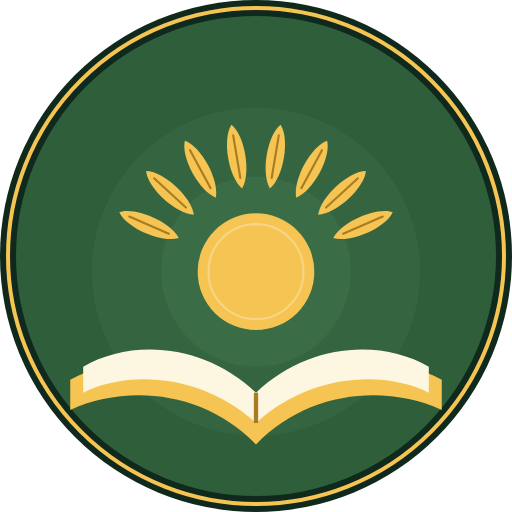
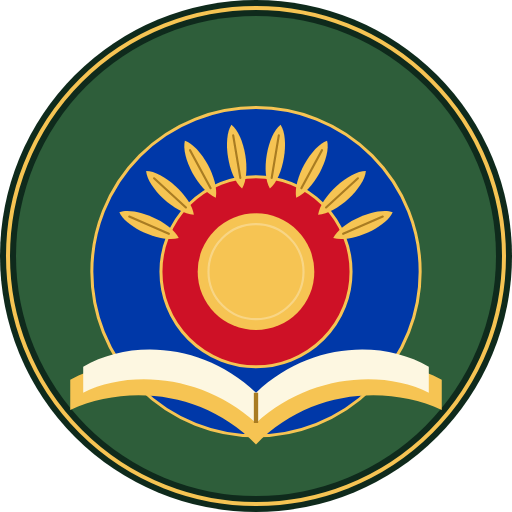
Take 3: flag blue and red rings behind the sun in place of the light greens
Claude-Session: https://claude.ai/code/session_01CBKGe5batvFWV6i17MSeEM

Changed region(s): [[0.1562, 0.1875, 0.8438, 0.7812], [0.2812, 0.75, 0.7188, 0.875]]

diff --git a/brand/jtcsii/take-3/guidelines.html b/brand/jtcsii/take-3/guidelines.html
@@ -69,8 +69,10 @@ svg.stacked{width:min(100%,480px);height:auto}svg.hz{width:100%;height:auto}
   <g fill="#F6C453"><path transform="translate(-59.85 -155.91) rotate(-21)" d="M0,-9.5 L2.29,-3.16 L9.04,-2.94 L3.71,1.21 L5.58,7.69 L0,3.9 L-5.58,7.69 L-3.71,1.21 L-9.04,-2.94 L-2.29,-3.16 Z"/><path transform="translate(0 -167) rotate(0)" d="M0,-9.5 L2.29,-3.16 L9.04,-2.94 L3.71,1.21 L5.58,7.69 L0,3.9 L-5.58,7.69 L-3.71,1.21 L-9.04,-2.94 L-2.29,-3.16 Z"/><path transform="translate(59.85 -155.91) rotate(21)" d="M0,-9.5 L2.29,-3.16 L9.04,-2.94 L3.71,1.21 L5.58,7.69 L0,3.9 L-5.58,7.69 L-3.71,1.21 L-9.04,-2.94 L-2.29,-3.16 Z"/></g>
   <defs><clipPath id="stmedu0"><circle r="128"/></clipPath></defs>
   <g clip-path="url(#stmedu0)"><rect x="-140" y="-140" width="280" height="280" fill="#2E5E3A"/>
-  <g transform="translate(0 -8)"><circle cx="0" cy="4" r="76" fill="#3A6C46" opacity=".55"/>
-  <circle cx="0" cy="4" r="44" fill="#3A6C46"/>
+  <g transform="translate(0 -8)"><circle cx="0" cy="4" r="76" fill="#0038A8"/>
+  <circle cx="0" cy="4" r="44" fill="#CE1126"/>
+  <circle cx="0" cy="4" r="44" fill="none" stroke="#F6C453" stroke-width="1.4"/>
+  <circle cx="0" cy="4" r="76" fill="none" stroke="#F6C453" stroke-width="1.4"/>
   <g fill="#F6C453"><path transform="translate(0 4) rotate(-66.5) translate(0 -54)" d="M0,-15 C5.25,-9.3 5.5,8.25 0,15 C-5.5,8.25 -5.25,-9.3 0,-15 Z"/><path transform="translate(0 4) rotate(-66.5) translate(0 -54)" d="M0,-10 V10" stroke="#A97C22" stroke-width="1" stroke-linecap="round"/><path transform="translate(0 4) rotate(-47.5) translate(0 -54)" d="M0,-15 C5.25,-9.3 5.5,8.25 0,15 C-5.5,8.25 -5.25,-9.3 0,-15 Z"/><path transform="translate(0 4) rotate(-47.5) translate(0 -54)" d="M0,-10 V10" stroke="#A97C22" stroke-width="1" stroke-linecap="round"/><path transform="translate(0 4) rotate(-28.5) translate(0 -54)" d="M0,-15 C5.25,-9.3 5.5,8.25 0,15 C-5.5,8.25 -5.25,-9.3 0,-15 Z"/><path transform="translate(0 4) rotate(-28.5) translate(0 -54)" d="M0,-10 V10" stroke="#A97C22" stroke-width="1" stroke-linecap="round"/><path transform="translate(0 4) rotate(-9.5) translate(0 -54)" d="M0,-15 C5.25,-9.3 5.5,8.25 0,15 C-5.5,8.25 -5.25,-9.3 0,-15 Z"/><path transform="translate(0 4) rotate(-9.5) translate(0 -54)" d="M0,-10 V10" stroke="#A97C22" stroke-width="1" stroke-linecap="round"/><path transform="translate(0 4) rotate(9.5) translate(0 -54)" d="M0,-15 C5.25,-9.3 5.5,8.25 0,15 C-5.5,8.25 -5.25,-9.3 0,-15 Z"/><path transform="translate(0 4) rotate(9.5) translate(0 -54)" d="M0,-10 V10" stroke="#A97C22" stroke-width="1" stroke-linecap="round"/><path transform="translate(0 4) rotate(28.5) translate(0 -54)" d="M0,-15 C5.25,-9.3 5.5,8.25 0,15 C-5.5,8.25 -5.25,-9.3 0,-15 Z"/><path transform="translate(0 4) rotate(28.5) translate(0 -54)" d="M0,-10 V10" stroke="#A97C22" stroke-width="1" stroke-linecap="round"/><path transform="translate(0 4) rotate(47.5) translate(0 -54)" d="M0,-15 C5.25,-9.3 5.5,8.25 0,15 C-5.5,8.25 -5.25,-9.3 0,-15 Z"/><path transform="translate(0 4) rotate(47.5) translate(0 -54)" d="M0,-10 V10" stroke="#A97C22" stroke-width="1" stroke-linecap="round"/><path transform="translate(0 4) rotate(66.5) translate(0 -54)" d="M0,-15 C5.25,-9.3 5.5,8.25 0,15 C-5.5,8.25 -5.25,-9.3 0,-15 Z"/><path transform="translate(0 4) rotate(66.5) translate(0 -54)" d="M0,-10 V10" stroke="#A97C22" stroke-width="1" stroke-linecap="round"/></g>
   <circle cx="0" cy="4" r="27" fill="#F6C453"/>
   <circle cx="0" cy="4" r="22" fill="none" stroke="#FDF7E1" stroke-opacity=".35" stroke-width="1"/><path d="M-150,72 -104,44 -72,52 -40,41 0,47 40,41 72,52 104,44 150,72 150,150 -150,150 Z" fill="#2A5636"/>
@@ -127,8 +129,10 @@ svg.stacked{width:min(100%,480px);height:auto}svg.hz{width:100%;height:auto}
   <g fill="#F6C453"><path transform="translate(-59.85 -155.91) rotate(-21)" d="M0,-9.5 L2.29,-3.16 L9.04,-2.94 L3.71,1.21 L5.58,7.69 L0,3.9 L-5.58,7.69 L-3.71,1.21 L-9.04,-2.94 L-2.29,-3.16 Z"/><path transform="translate(0 -167) rotate(0)" d="M0,-9.5 L2.29,-3.16 L9.04,-2.94 L3.71,1.21 L5.58,7.69 L0,3.9 L-5.58,7.69 L-3.71,1.21 L-9.04,-2.94 L-2.29,-3.16 Z"/><path transform="translate(59.85 -155.91) rotate(21)" d="M0,-9.5 L2.29,-3.16 L9.04,-2.94 L3.71,1.21 L5.58,7.69 L0,3.9 L-5.58,7.69 L-3.71,1.21 L-9.04,-2.94 L-2.29,-3.16 Z"/></g>
   <defs><clipPath id="hzmedu1"><circle r="128"/></clipPath></defs>
   <g clip-path="url(#hzmedu1)"><rect x="-140" y="-140" width="280" height="280" fill="#2E5E3A"/>
-  <g transform="translate(0 -8)"><circle cx="0" cy="4" r="76" fill="#3A6C46" opacity=".55"/>
-  <circle cx="0" cy="4" r="44" fill="#3A6C46"/>
+  <g transform="translate(0 -8)"><circle cx="0" cy="4" r="76" fill="#0038A8"/>
+  <circle cx="0" cy="4" r="44" fill="#CE1126"/>
+  <circle cx="0" cy="4" r="44" fill="none" stroke="#F6C453" stroke-width="1.4"/>
+  <circle cx="0" cy="4" r="76" fill="none" stroke="#F6C453" stroke-width="1.4"/>
   <g fill="#F6C453"><path transform="translate(0 4) rotate(-66.5) translate(0 -54)" d="M0,-15 C5.25,-9.3 5.5,8.25 0,15 C-5.5,8.25 -5.25,-9.3 0,-15 Z"/><path transform="translate(0 4) rotate(-66.5) translate(0 -54)" d="M0,-10 V10" stroke="#A97C22" stroke-width="1" stroke-linecap="round"/><path transform="translate(0 4) rotate(-47.5) translate(0 -54)" d="M0,-15 C5.25,-9.3 5.5,8.25 0,15 C-5.5,8.25 -5.25,-9.3 0,-15 Z"/><path transform="translate(0 4) rotate(-47.5) translate(0 -54)" d="M0,-10 V10" stroke="#A97C22" stroke-width="1" stroke-linecap="round"/><path transform="translate(0 4) rotate(-28.5) translate(0 -54)" d="M0,-15 C5.25,-9.3 5.5,8.25 0,15 C-5.5,8.25 -5.25,-9.3 0,-15 Z"/><path transform="translate(0 4) rotate(-28.5) translate(0 -54)" d="M0,-10 V10" stroke="#A97C22" stroke-width="1" stroke-linecap="round"/><path transform="translate(0 4) rotate(-9.5) translate(0 -54)" d="M0,-15 C5.25,-9.3 5.5,8.25 0,15 C-5.5,8.25 -5.25,-9.3 0,-15 Z"/><path transform="translate(0 4) rotate(-9.5) translate(0 -54)" d="M0,-10 V10" stroke="#A97C22" stroke-width="1" stroke-linecap="round"/><path transform="translate(0 4) rotate(9.5) translate(0 -54)" d="M0,-15 C5.25,-9.3 5.5,8.25 0,15 C-5.5,8.25 -5.25,-9.3 0,-15 Z"/><path transform="translate(0 4) rotate(9.5) translate(0 -54)" d="M0,-10 V10" stroke="#A97C22" stroke-width="1" stroke-linecap="round"/><path transform="translate(0 4) rotate(28.5) translate(0 -54)" d="M0,-15 C5.25,-9.3 5.5,8.25 0,15 C-5.5,8.25 -5.25,-9.3 0,-15 Z"/><path transform="translate(0 4) rotate(28.5) translate(0 -54)" d="M0,-10 V10" stroke="#A97C22" stroke-width="1" stroke-linecap="round"/><path transform="translate(0 4) rotate(47.5) translate(0 -54)" d="M0,-15 C5.25,-9.3 5.5,8.25 0,15 C-5.5,8.25 -5.25,-9.3 0,-15 Z"/><path transform="translate(0 4) rotate(47.5) translate(0 -54)" d="M0,-10 V10" stroke="#A97C22" stroke-width="1" stroke-linecap="round"/><path transform="translate(0 4) rotate(66.5) translate(0 -54)" d="M0,-15 C5.25,-9.3 5.5,8.25 0,15 C-5.5,8.25 -5.25,-9.3 0,-15 Z"/><path transform="translate(0 4) rotate(66.5) translate(0 -54)" d="M0,-10 V10" stroke="#A97C22" stroke-width="1" stroke-linecap="round"/></g>
   <circle cx="0" cy="4" r="27" fill="#F6C453"/>
   <circle cx="0" cy="4" r="22" fill="none" stroke="#FDF7E1" stroke-opacity=".35" stroke-width="1"/><path d="M-150,72 -104,44 -72,52 -40,41 0,47 40,41 72,52 104,44 150,72 150,150 -150,150 Z" fill="#2A5636"/>
@@ -186,8 +190,10 @@ svg.stacked{width:min(100%,480px);height:auto}svg.hz{width:100%;height:auto}
   <g fill="#F6C453"><path transform="translate(-59.85 -155.91) rotate(-21)" d="M0,-9.5 L2.29,-3.16 L9.04,-2.94 L3.71,1.21 L5.58,7.69 L0,3.9 L-5.58,7.69 L-3.71,1.21 L-9.04,-2.94 L-2.29,-3.16 Z"/><path transform="translate(0 -167) rotate(0)" d="M0,-9.5 L2.29,-3.16 L9.04,-2.94 L3.71,1.21 L5.58,7.69 L0,3.9 L-5.58,7.69 L-3.71,1.21 L-9.04,-2.94 L-2.29,-3.16 Z"/><path transform="translate(59.85 -155.91) rotate(21)" d="M0,-9.5 L2.29,-3.16 L9.04,-2.94 L3.71,1.21 L5.58,7.69 L0,3.9 L-5.58,7.69 L-3.71,1.21 L-9.04,-2.94 L-2.29,-3.16 Z"/></g>
   <defs><clipPath id="hrmedu2"><circle r="128"/></clipPath></defs>
   <g clip-path="url(#hrmedu2)"><rect x="-140" y="-140" width="280" height="280" fill="#2E5E3A"/>
-  <g transform="translate(0 -8)"><circle cx="0" cy="4" r="76" fill="#3A6C46" opacity=".55"/>
-  <circle cx="0" cy="4" r="44" fill="#3A6C46"/>
+  <g transform="translate(0 -8)"><circle cx="0" cy="4" r="76" fill="#0038A8"/>
+  <circle cx="0" cy="4" r="44" fill="#CE1126"/>
+  <circle cx="0" cy="4" r="44" fill="none" stroke="#F6C453" stroke-width="1.4"/>
+  <circle cx="0" cy="4" r="76" fill="none" stroke="#F6C453" stroke-width="1.4"/>
   <g fill="#F6C453"><path transform="translate(0 4) rotate(-66.5) translate(0 -54)" d="M0,-15 C5.25,-9.3 5.5,8.25 0,15 C-5.5,8.25 -5.25,-9.3 0,-15 Z"/><path transform="translate(0 4) rotate(-66.5) translate(0 -54)" d="M0,-10 V10" stroke="#A97C22" stroke-width="1" stroke-linecap="round"/><path transform="translate(0 4) rotate(-47.5) translate(0 -54)" d="M0,-15 C5.25,-9.3 5.5,8.25 0,15 C-5.5,8.25 -5.25,-9.3 0,-15 Z"/><path transform="translate(0 4) rotate(-47.5) translate(0 -54)" d="M0,-10 V10" stroke="#A97C22" stroke-width="1" stroke-linecap="round"/><path transform="translate(0 4) rotate(-28.5) translate(0 -54)" d="M0,-15 C5.25,-9.3 5.5,8.25 0,15 C-5.5,8.25 -5.25,-9.3 0,-15 Z"/><path transform="translate(0 4) rotate(-28.5) translate(0 -54)" d="M0,-10 V10" stroke="#A97C22" stroke-width="1" stroke-linecap="round"/><path transform="translate(0 4) rotate(-9.5) translate(0 -54)" d="M0,-15 C5.25,-9.3 5.5,8.25 0,15 C-5.5,8.25 -5.25,-9.3 0,-15 Z"/><path transform="translate(0 4) rotate(-9.5) translate(0 -54)" d="M0,-10 V10" stroke="#A97C22" stroke-width="1" stroke-linecap="round"/><path transform="translate(0 4) rotate(9.5) translate(0 -54)" d="M0,-15 C5.25,-9.3 5.5,8.25 0,15 C-5.5,8.25 -5.25,-9.3 0,-15 Z"/><path transform="translate(0 4) rotate(9.5) translate(0 -54)" d="M0,-10 V10" stroke="#A97C22" stroke-width="1" stroke-linecap="round"/><path transform="translate(0 4) rotate(28.5) translate(0 -54)" d="M0,-15 C5.25,-9.3 5.5,8.25 0,15 C-5.5,8.25 -5.25,-9.3 0,-15 Z"/><path transform="translate(0 4) rotate(28.5) translate(0 -54)" d="M0,-10 V10" stroke="#A97C22" stroke-width="1" stroke-linecap="round"/><path transform="translate(0 4) rotate(47.5) translate(0 -54)" d="M0,-15 C5.25,-9.3 5.5,8.25 0,15 C-5.5,8.25 -5.25,-9.3 0,-15 Z"/><path transform="translate(0 4) rotate(47.5) translate(0 -54)" d="M0,-10 V10" stroke="#A97C22" stroke-width="1" stroke-linecap="round"/><path transform="translate(0 4) rotate(66.5) translate(0 -54)" d="M0,-15 C5.25,-9.3 5.5,8.25 0,15 C-5.5,8.25 -5.25,-9.3 0,-15 Z"/><path transform="translate(0 4) rotate(66.5) translate(0 -54)" d="M0,-10 V10" stroke="#A97C22" stroke-width="1" stroke-linecap="round"/></g>
   <circle cx="0" cy="4" r="27" fill="#F6C453"/>
   <circle cx="0" cy="4" r="22" fill="none" stroke="#FDF7E1" stroke-opacity=".35" stroke-width="1"/><path d="M-150,72 -104,44 -72,52 -40,41 0,47 40,41 72,52 104,44 150,72 150,150 -150,150 Z" fill="#2A5636"/>
@@ -231,7 +237,7 @@ svg.stacked{width:min(100%,480px);height:auto}svg.hz{width:100%;height:auto}
 </div>
 
 <section><div class="eyebrow">Symbolism</div><h2>Meaning, in numbers</h2>
-<div class="numbers"><div class="num"><b>8</b><h3>Rays of palay</h3><p>The eight rays of the sun of the Philippine flag, each drawn as a grain of palay: the light of learning, and the harvest of Rosario.</p></div><div class="num"><b>2</b><h3>Mountain peaks</h3><p>A far-flung school in the uplands, and its two departments, elementary and secondary, integrated into one.</p></div><div class="num"><b>1</b><h3>Book-bridge</h3><p>An open book is the deck of a highland hanging bridge between the two peaks: education reaches learners even in the mountains and carries them across to opportunity. Together we bridge.</p></div><div class="num"><b>4</b><h3>Rice terraces</h3><p>The four DepEd core values, Maka-Diyos, Maka-tao, Makakalikasan and Makabansa, built step by step like terraces in the valley the school serves.</p></div><div class="num"><b>3</b><h3>Stars</h3><p>The three stars of the flag: Luzon, Visayas and Mindanao.</p></div><div class="num"><b>13</b><h3>Grains on each stalk</h3><p>Kindergarten plus Grades 1 to 12: every level of the integrated K–12 school, carried by the palay wreath.</p></div></div></section>
+<div class="numbers"><div class="num"><b>8</b><h3>Rays of palay</h3><p>The eight rays of the sun of the Philippine flag, each drawn as a grain of palay, rising out of rings of the flag’s blue and red: the light of learning, and the harvest of Rosario.</p></div><div class="num"><b>2</b><h3>Mountain peaks</h3><p>A far-flung school in the uplands, and its two departments, elementary and secondary, integrated into one.</p></div><div class="num"><b>1</b><h3>Book-bridge</h3><p>An open book is the deck of a highland hanging bridge between the two peaks: education reaches learners even in the mountains and carries them across to opportunity. Together we bridge.</p></div><div class="num"><b>4</b><h3>Rice terraces</h3><p>The four DepEd core values, Maka-Diyos, Maka-tao, Makakalikasan and Makabansa, built step by step like terraces in the valley the school serves.</p></div><div class="num"><b>3</b><h3>Stars</h3><p>The three stars of the flag: Luzon, Visayas and Mindanao.</p></div><div class="num"><b>13</b><h3>Grains on each stalk</h3><p>Kindergarten plus Grades 1 to 12: every level of the integrated K–12 school, carried by the palay wreath.</p></div></div></section>
 
 <section class="anatomy">
   <div><div class="figure"><svg xmlns="http://www.w3.org/2000/svg" viewBox="0 0 500 500" class="" style=""><g transform="translate(250 250) scale(1)"><g>
@@ -252,8 +258,10 @@ svg.stacked{width:min(100%,480px);height:auto}svg.hz{width:100%;height:auto}
   <g fill="#F6C453"><path transform="translate(-59.85 -155.91) rotate(-21)" d="M0,-9.5 L2.29,-3.16 L9.04,-2.94 L3.71,1.21 L5.58,7.69 L0,3.9 L-5.58,7.69 L-3.71,1.21 L-9.04,-2.94 L-2.29,-3.16 Z"/><path transform="translate(0 -167) rotate(0)" d="M0,-9.5 L2.29,-3.16 L9.04,-2.94 L3.71,1.21 L5.58,7.69 L0,3.9 L-5.58,7.69 L-3.71,1.21 L-9.04,-2.94 L-2.29,-3.16 Z"/><path transform="translate(59.85 -155.91) rotate(21)" d="M0,-9.5 L2.29,-3.16 L9.04,-2.94 L3.71,1.21 L5.58,7.69 L0,3.9 L-5.58,7.69 L-3.71,1.21 L-9.04,-2.94 L-2.29,-3.16 Z"/></g>
   <defs><clipPath id="smedu3"><circle r="128"/></clipPath></defs>
   <g clip-path="url(#smedu3)"><rect x="-140" y="-140" width="280" height="280" fill="#2E5E3A"/>
-  <g transform="translate(0 -8)"><circle cx="0" cy="4" r="76" fill="#3A6C46" opacity=".55"/>
-  <circle cx="0" cy="4" r="44" fill="#3A6C46"/>
+  <g transform="translate(0 -8)"><circle cx="0" cy="4" r="76" fill="#0038A8"/>
+  <circle cx="0" cy="4" r="44" fill="#CE1126"/>
+  <circle cx="0" cy="4" r="44" fill="none" stroke="#F6C453" stroke-width="1.4"/>
+  <circle cx="0" cy="4" r="76" fill="none" stroke="#F6C453" stroke-width="1.4"/>
   <g fill="#F6C453"><path transform="translate(0 4) rotate(-66.5) translate(0 -54)" d="M0,-15 C5.25,-9.3 5.5,8.25 0,15 C-5.5,8.25 -5.25,-9.3 0,-15 Z"/><path transform="translate(0 4) rotate(-66.5) translate(0 -54)" d="M0,-10 V10" stroke="#A97C22" stroke-width="1" stroke-linecap="round"/><path transform="translate(0 4) rotate(-47.5) translate(0 -54)" d="M0,-15 C5.25,-9.3 5.5,8.25 0,15 C-5.5,8.25 -5.25,-9.3 0,-15 Z"/><path transform="translate(0 4) rotate(-47.5) translate(0 -54)" d="M0,-10 V10" stroke="#A97C22" stroke-width="1" stroke-linecap="round"/><path transform="translate(0 4) rotate(-28.5) translate(0 -54)" d="M0,-15 C5.25,-9.3 5.5,8.25 0,15 C-5.5,8.25 -5.25,-9.3 0,-15 Z"/><path transform="translate(0 4) rotate(-28.5) translate(0 -54)" d="M0,-10 V10" stroke="#A97C22" stroke-width="1" stroke-linecap="round"/><path transform="translate(0 4) rotate(-9.5) translate(0 -54)" d="M0,-15 C5.25,-9.3 5.5,8.25 0,15 C-5.5,8.25 -5.25,-9.3 0,-15 Z"/><path transform="translate(0 4) rotate(-9.5) translate(0 -54)" d="M0,-10 V10" stroke="#A97C22" stroke-width="1" stroke-linecap="round"/><path transform="translate(0 4) rotate(9.5) translate(0 -54)" d="M0,-15 C5.25,-9.3 5.5,8.25 0,15 C-5.5,8.25 -5.25,-9.3 0,-15 Z"/><path transform="translate(0 4) rotate(9.5) translate(0 -54)" d="M0,-10 V10" stroke="#A97C22" stroke-width="1" stroke-linecap="round"/><path transform="translate(0 4) rotate(28.5) translate(0 -54)" d="M0,-15 C5.25,-9.3 5.5,8.25 0,15 C-5.5,8.25 -5.25,-9.3 0,-15 Z"/><path transform="translate(0 4) rotate(28.5) translate(0 -54)" d="M0,-10 V10" stroke="#A97C22" stroke-width="1" stroke-linecap="round"/><path transform="translate(0 4) rotate(47.5) translate(0 -54)" d="M0,-15 C5.25,-9.3 5.5,8.25 0,15 C-5.5,8.25 -5.25,-9.3 0,-15 Z"/><path transform="translate(0 4) rotate(47.5) translate(0 -54)" d="M0,-10 V10" stroke="#A97C22" stroke-width="1" stroke-linecap="round"/><path transform="translate(0 4) rotate(66.5) translate(0 -54)" d="M0,-15 C5.25,-9.3 5.5,8.25 0,15 C-5.5,8.25 -5.25,-9.3 0,-15 Z"/><path transform="translate(0 4) rotate(66.5) translate(0 -54)" d="M0,-10 V10" stroke="#A97C22" stroke-width="1" stroke-linecap="round"/></g>
   <circle cx="0" cy="4" r="27" fill="#F6C453"/>
   <circle cx="0" cy="4" r="22" fill="none" stroke="#FDF7E1" stroke-opacity=".35" stroke-width="1"/><path d="M-150,72 -104,44 -72,52 -40,41 0,47 40,41 72,52 104,44 150,72 150,150 -150,150 Z" fill="#2A5636"/>
@@ -318,8 +326,10 @@ svg.stacked{width:min(100%,480px);height:auto}svg.hz{width:100%;height:auto}
   <g fill="#F6C453"><path transform="translate(-59.85 -155.91) rotate(-21)" d="M0,-9.5 L2.29,-3.16 L9.04,-2.94 L3.71,1.21 L5.58,7.69 L0,3.9 L-5.58,7.69 L-3.71,1.21 L-9.04,-2.94 L-2.29,-3.16 Z"/><path transform="translate(0 -167) rotate(0)" d="M0,-9.5 L2.29,-3.16 L9.04,-2.94 L3.71,1.21 L5.58,7.69 L0,3.9 L-5.58,7.69 L-3.71,1.21 L-9.04,-2.94 L-2.29,-3.16 Z"/><path transform="translate(59.85 -155.91) rotate(21)" d="M0,-9.5 L2.29,-3.16 L9.04,-2.94 L3.71,1.21 L5.58,7.69 L0,3.9 L-5.58,7.69 L-3.71,1.21 L-9.04,-2.94 L-2.29,-3.16 Z"/></g>
   <defs><clipPath id="smedu4"><circle r="128"/></clipPath></defs>
   <g clip-path="url(#smedu4)"><rect x="-140" y="-140" width="280" height="280" fill="#2E5E3A"/>
-  <g transform="translate(0 -8)"><circle cx="0" cy="4" r="76" fill="#3A6C46" opacity=".55"/>
-  <circle cx="0" cy="4" r="44" fill="#3A6C46"/>
+  <g transform="translate(0 -8)"><circle cx="0" cy="4" r="76" fill="#0038A8"/>
+  <circle cx="0" cy="4" r="44" fill="#CE1126"/>
+  <circle cx="0" cy="4" r="44" fill="none" stroke="#F6C453" stroke-width="1.4"/>
+  <circle cx="0" cy="4" r="76" fill="none" stroke="#F6C453" stroke-width="1.4"/>
   <g fill="#F6C453"><path transform="translate(0 4) rotate(-66.5) translate(0 -54)" d="M0,-15 C5.25,-9.3 5.5,8.25 0,15 C-5.5,8.25 -5.25,-9.3 0,-15 Z"/><path transform="translate(0 4) rotate(-66.5) translate(0 -54)" d="M0,-10 V10" stroke="#A97C22" stroke-width="1" stroke-linecap="round"/><path transform="translate(0 4) rotate(-47.5) translate(0 -54)" d="M0,-15 C5.25,-9.3 5.5,8.25 0,15 C-5.5,8.25 -5.25,-9.3 0,-15 Z"/><path transform="translate(0 4) rotate(-47.5) translate(0 -54)" d="M0,-10 V10" stroke="#A97C22" stroke-width="1" stroke-linecap="round"/><path transform="translate(0 4) rotate(-28.5) translate(0 -54)" d="M0,-15 C5.25,-9.3 5.5,8.25 0,15 C-5.5,8.25 -5.25,-9.3 0,-15 Z"/><path transform="translate(0 4) rotate(-28.5) translate(0 -54)" d="M0,-10 V10" stroke="#A97C22" stroke-width="1" stroke-linecap="round"/><path transform="translate(0 4) rotate(-9.5) translate(0 -54)" d="M0,-15 C5.25,-9.3 5.5,8.25 0,15 C-5.5,8.25 -5.25,-9.3 0,-15 Z"/><path transform="translate(0 4) rotate(-9.5) translate(0 -54)" d="M0,-10 V10" stroke="#A97C22" stroke-width="1" stroke-linecap="round"/><path transform="translate(0 4) rotate(9.5) translate(0 -54)" d="M0,-15 C5.25,-9.3 5.5,8.25 0,15 C-5.5,8.25 -5.25,-9.3 0,-15 Z"/><path transform="translate(0 4) rotate(9.5) translate(0 -54)" d="M0,-10 V10" stroke="#A97C22" stroke-width="1" stroke-linecap="round"/><path transform="translate(0 4) rotate(28.5) translate(0 -54)" d="M0,-15 C5.25,-9.3 5.5,8.25 0,15 C-5.5,8.25 -5.25,-9.3 0,-15 Z"/><path transform="translate(0 4) rotate(28.5) translate(0 -54)" d="M0,-10 V10" stroke="#A97C22" stroke-width="1" stroke-linecap="round"/><path transform="translate(0 4) rotate(47.5) translate(0 -54)" d="M0,-15 C5.25,-9.3 5.5,8.25 0,15 C-5.5,8.25 -5.25,-9.3 0,-15 Z"/><path transform="translate(0 4) rotate(47.5) translate(0 -54)" d="M0,-10 V10" stroke="#A97C22" stroke-width="1" stroke-linecap="round"/><path transform="translate(0 4) rotate(66.5) translate(0 -54)" d="M0,-15 C5.25,-9.3 5.5,8.25 0,15 C-5.5,8.25 -5.25,-9.3 0,-15 Z"/><path transform="translate(0 4) rotate(66.5) translate(0 -54)" d="M0,-10 V10" stroke="#A97C22" stroke-width="1" stroke-linecap="round"/></g>
   <circle cx="0" cy="4" r="27" fill="#F6C453"/>
   <circle cx="0" cy="4" r="22" fill="none" stroke="#FDF7E1" stroke-opacity=".35" stroke-width="1"/><path d="M-150,72 -104,44 -72,52 -40,41 0,47 40,41 72,52 104,44 150,72 150,150 -150,150 Z" fill="#2A5636"/>
@@ -355,8 +365,10 @@ svg.stacked{width:min(100%,480px);height:auto}svg.hz{width:100%;height:auto}
 <figcaption>Official seal: documents, certificates, signage</figcaption></figure>
   <figure><svg xmlns="http://www.w3.org/2000/svg" viewBox="0 0 280 280" class="" style="width:86%;height:auto"><g transform="translate(140 140)"><circle r="140" fill="#0F2A1C"/><defs><clipPath id="mmedu5"><circle r="128"/></clipPath></defs>
   <g clip-path="url(#mmedu5)"><rect x="-140" y="-140" width="280" height="280" fill="#2E5E3A"/>
-  <g transform="translate(0 -8)"><circle cx="0" cy="4" r="76" fill="#3A6C46" opacity=".55"/>
-  <circle cx="0" cy="4" r="44" fill="#3A6C46"/>
+  <g transform="translate(0 -8)"><circle cx="0" cy="4" r="76" fill="#0038A8"/>
+  <circle cx="0" cy="4" r="44" fill="#CE1126"/>
+  <circle cx="0" cy="4" r="44" fill="none" stroke="#F6C453" stroke-width="1.4"/>
+  <circle cx="0" cy="4" r="76" fill="none" stroke="#F6C453" stroke-width="1.4"/>
   <g fill="#F6C453"><path transform="translate(0 4) rotate(-66.5) translate(0 -54)" d="M0,-15 C5.25,-9.3 5.5,8.25 0,15 C-5.5,8.25 -5.25,-9.3 0,-15 Z"/><path transform="translate(0 4) rotate(-66.5) translate(0 -54)" d="M0,-10 V10" stroke="#A97C22" stroke-width="1" stroke-linecap="round"/><path transform="translate(0 4) rotate(-47.5) translate(0 -54)" d="M0,-15 C5.25,-9.3 5.5,8.25 0,15 C-5.5,8.25 -5.25,-9.3 0,-15 Z"/><path transform="translate(0 4) rotate(-47.5) translate(0 -54)" d="M0,-10 V10" stroke="#A97C22" stroke-width="1" stroke-linecap="round"/><path transform="translate(0 4) rotate(-28.5) translate(0 -54)" d="M0,-15 C5.25,-9.3 5.5,8.25 0,15 C-5.5,8.25 -5.25,-9.3 0,-15 Z"/><path transform="translate(0 4) rotate(-28.5) translate(0 -54)" d="M0,-10 V10" stroke="#A97C22" stroke-width="1" stroke-linecap="round"/><path transform="translate(0 4) rotate(-9.5) translate(0 -54)" d="M0,-15 C5.25,-9.3 5.5,8.25 0,15 C-5.5,8.25 -5.25,-9.3 0,-15 Z"/><path transform="translate(0 4) rotate(-9.5) translate(0 -54)" d="M0,-10 V10" stroke="#A97C22" stroke-width="1" stroke-linecap="round"/><path transform="translate(0 4) rotate(9.5) translate(0 -54)" d="M0,-15 C5.25,-9.3 5.5,8.25 0,15 C-5.5,8.25 -5.25,-9.3 0,-15 Z"/><path transform="translate(0 4) rotate(9.5) translate(0 -54)" d="M0,-10 V10" stroke="#A97C22" stroke-width="1" stroke-linecap="round"/><path transform="translate(0 4) rotate(28.5) translate(0 -54)" d="M0,-15 C5.25,-9.3 5.5,8.25 0,15 C-5.5,8.25 -5.25,-9.3 0,-15 Z"/><path transform="translate(0 4) rotate(28.5) translate(0 -54)" d="M0,-10 V10" stroke="#A97C22" stroke-width="1" stroke-linecap="round"/><path transform="translate(0 4) rotate(47.5) translate(0 -54)" d="M0,-15 C5.25,-9.3 5.5,8.25 0,15 C-5.5,8.25 -5.25,-9.3 0,-15 Z"/><path transform="translate(0 4) rotate(47.5) translate(0 -54)" d="M0,-10 V10" stroke="#A97C22" stroke-width="1" stroke-linecap="round"/><path transform="translate(0 4) rotate(66.5) translate(0 -54)" d="M0,-15 C5.25,-9.3 5.5,8.25 0,15 C-5.5,8.25 -5.25,-9.3 0,-15 Z"/><path transform="translate(0 4) rotate(66.5) translate(0 -54)" d="M0,-10 V10" stroke="#A97C22" stroke-width="1" stroke-linecap="round"/></g>
   <circle cx="0" cy="4" r="27" fill="#F6C453"/>
   <circle cx="0" cy="4" r="22" fill="none" stroke="#FDF7E1" stroke-opacity=".35" stroke-width="1"/><path d="M-150,72 -104,44 -72,52 -40,41 0,47 40,41 72,52 104,44 150,72 150,150 -150,150 Z" fill="#2A5636"/>
@@ -388,8 +400,10 @@ svg.stacked{width:min(100%,480px);height:auto}svg.hz{width:100%;height:auto}
   <circle r="128" fill="#0F2A1C"/>
   <circle r="120" fill="#2E5E3A"/>
   <defs><clipPath id="mku6"><circle r="120"/></clipPath></defs>
-  <g clip-path="url(#mku6)" transform="translate(0 10) scale(1.08)"><g transform="translate(0 -6)"><circle cx="0" cy="4" r="76" fill="#3A6C46" opacity=".55"/>
-  <circle cx="0" cy="4" r="44" fill="#3A6C46"/>
+  <g clip-path="url(#mku6)" transform="translate(0 10) scale(1.08)"><g transform="translate(0 -6)"><circle cx="0" cy="4" r="76" fill="#0038A8"/>
+  <circle cx="0" cy="4" r="44" fill="#CE1126"/>
+  <circle cx="0" cy="4" r="44" fill="none" stroke="#F6C453" stroke-width="1.4"/>
+  <circle cx="0" cy="4" r="76" fill="none" stroke="#F6C453" stroke-width="1.4"/>
   <g fill="#F6C453"><path transform="translate(0 4) rotate(-66.5) translate(0 -54)" d="M0,-15 C5.25,-9.3 5.5,8.25 0,15 C-5.5,8.25 -5.25,-9.3 0,-15 Z"/><path transform="translate(0 4) rotate(-66.5) translate(0 -54)" d="M0,-10 V10" stroke="#A97C22" stroke-width="1" stroke-linecap="round"/><path transform="translate(0 4) rotate(-47.5) translate(0 -54)" d="M0,-15 C5.25,-9.3 5.5,8.25 0,15 C-5.5,8.25 -5.25,-9.3 0,-15 Z"/><path transform="translate(0 4) rotate(-47.5) translate(0 -54)" d="M0,-10 V10" stroke="#A97C22" stroke-width="1" stroke-linecap="round"/><path transform="translate(0 4) rotate(-28.5) translate(0 -54)" d="M0,-15 C5.25,-9.3 5.5,8.25 0,15 C-5.5,8.25 -5.25,-9.3 0,-15 Z"/><path transform="translate(0 4) rotate(-28.5) translate(0 -54)" d="M0,-10 V10" stroke="#A97C22" stroke-width="1" stroke-linecap="round"/><path transform="translate(0 4) rotate(-9.5) translate(0 -54)" d="M0,-15 C5.25,-9.3 5.5,8.25 0,15 C-5.5,8.25 -5.25,-9.3 0,-15 Z"/><path transform="translate(0 4) rotate(-9.5) translate(0 -54)" d="M0,-10 V10" stroke="#A97C22" stroke-width="1" stroke-linecap="round"/><path transform="translate(0 4) rotate(9.5) translate(0 -54)" d="M0,-15 C5.25,-9.3 5.5,8.25 0,15 C-5.5,8.25 -5.25,-9.3 0,-15 Z"/><path transform="translate(0 4) rotate(9.5) translate(0 -54)" d="M0,-10 V10" stroke="#A97C22" stroke-width="1" stroke-linecap="round"/><path transform="translate(0 4) rotate(28.5) translate(0 -54)" d="M0,-15 C5.25,-9.3 5.5,8.25 0,15 C-5.5,8.25 -5.25,-9.3 0,-15 Z"/><path transform="translate(0 4) rotate(28.5) translate(0 -54)" d="M0,-10 V10" stroke="#A97C22" stroke-width="1" stroke-linecap="round"/><path transform="translate(0 4) rotate(47.5) translate(0 -54)" d="M0,-15 C5.25,-9.3 5.5,8.25 0,15 C-5.5,8.25 -5.25,-9.3 0,-15 Z"/><path transform="translate(0 4) rotate(47.5) translate(0 -54)" d="M0,-10 V10" stroke="#A97C22" stroke-width="1" stroke-linecap="round"/><path transform="translate(0 4) rotate(66.5) translate(0 -54)" d="M0,-15 C5.25,-9.3 5.5,8.25 0,15 C-5.5,8.25 -5.25,-9.3 0,-15 Z"/><path transform="translate(0 4) rotate(66.5) translate(0 -54)" d="M0,-10 V10" stroke="#A97C22" stroke-width="1" stroke-linecap="round"/></g>
   <circle cx="0" cy="4" r="27" fill="#F6C453"/>
   <circle cx="0" cy="4" r="22" fill="none" stroke="#FDF7E1" stroke-opacity=".35" stroke-width="1"/></g>
@@ -403,8 +417,10 @@ svg.stacked{width:min(100%,480px);height:auto}svg.hz{width:100%;height:auto}
   <circle r="128" fill="#0F2A1C"/>
   <circle r="120" fill="#2E5E3A"/>
   <defs><clipPath id="mku7"><circle r="120"/></clipPath></defs>
-  <g clip-path="url(#mku7)" transform="translate(0 10) scale(1.08)"><g transform="translate(0 -6)"><circle cx="0" cy="4" r="76" fill="#3A6C46" opacity=".55"/>
-  <circle cx="0" cy="4" r="44" fill="#3A6C46"/>
+  <g clip-path="url(#mku7)" transform="translate(0 10) scale(1.08)"><g transform="translate(0 -6)"><circle cx="0" cy="4" r="76" fill="#0038A8"/>
+  <circle cx="0" cy="4" r="44" fill="#CE1126"/>
+  <circle cx="0" cy="4" r="44" fill="none" stroke="#F6C453" stroke-width="1.4"/>
+  <circle cx="0" cy="4" r="76" fill="none" stroke="#F6C453" stroke-width="1.4"/>
   <g fill="#F6C453"><path transform="translate(0 4) rotate(-66.5) translate(0 -54)" d="M0,-15 C5.25,-9.3 5.5,8.25 0,15 C-5.5,8.25 -5.25,-9.3 0,-15 Z"/><path transform="translate(0 4) rotate(-66.5) translate(0 -54)" d="M0,-10 V10" stroke="#A97C22" stroke-width="1" stroke-linecap="round"/><path transform="translate(0 4) rotate(-47.5) translate(0 -54)" d="M0,-15 C5.25,-9.3 5.5,8.25 0,15 C-5.5,8.25 -5.25,-9.3 0,-15 Z"/><path transform="translate(0 4) rotate(-47.5) translate(0 -54)" d="M0,-10 V10" stroke="#A97C22" stroke-width="1" stroke-linecap="round"/><path transform="translate(0 4) rotate(-28.5) translate(0 -54)" d="M0,-15 C5.25,-9.3 5.5,8.25 0,15 C-5.5,8.25 -5.25,-9.3 0,-15 Z"/><path transform="translate(0 4) rotate(-28.5) translate(0 -54)" d="M0,-10 V10" stroke="#A97C22" stroke-width="1" stroke-linecap="round"/><path transform="translate(0 4) rotate(-9.5) translate(0 -54)" d="M0,-15 C5.25,-9.3 5.5,8.25 0,15 C-5.5,8.25 -5.25,-9.3 0,-15 Z"/><path transform="translate(0 4) rotate(-9.5) translate(0 -54)" d="M0,-10 V10" stroke="#A97C22" stroke-width="1" stroke-linecap="round"/><path transform="translate(0 4) rotate(9.5) translate(0 -54)" d="M0,-15 C5.25,-9.3 5.5,8.25 0,15 C-5.5,8.25 -5.25,-9.3 0,-15 Z"/><path transform="translate(0 4) rotate(9.5) translate(0 -54)" d="M0,-10 V10" stroke="#A97C22" stroke-width="1" stroke-linecap="round"/><path transform="translate(0 4) rotate(28.5) translate(0 -54)" d="M0,-15 C5.25,-9.3 5.5,8.25 0,15 C-5.5,8.25 -5.25,-9.3 0,-15 Z"/><path transform="translate(0 4) rotate(28.5) translate(0 -54)" d="M0,-10 V10" stroke="#A97C22" stroke-width="1" stroke-linecap="round"/><path transform="translate(0 4) rotate(47.5) translate(0 -54)" d="M0,-15 C5.25,-9.3 5.5,8.25 0,15 C-5.5,8.25 -5.25,-9.3 0,-15 Z"/><path transform="translate(0 4) rotate(47.5) translate(0 -54)" d="M0,-10 V10" stroke="#A97C22" stroke-width="1" stroke-linecap="round"/><path transform="translate(0 4) rotate(66.5) translate(0 -54)" d="M0,-15 C5.25,-9.3 5.5,8.25 0,15 C-5.5,8.25 -5.25,-9.3 0,-15 Z"/><path transform="translate(0 4) rotate(66.5) translate(0 -54)" d="M0,-10 V10" stroke="#A97C22" stroke-width="1" stroke-linecap="round"/></g>
   <circle cx="0" cy="4" r="27" fill="#F6C453"/>
   <circle cx="0" cy="4" r="22" fill="none" stroke="#FDF7E1" stroke-opacity=".35" stroke-width="1"/></g>
@@ -417,8 +433,10 @@ svg.stacked{width:min(100%,480px);height:auto}svg.hz{width:100%;height:auto}
   <circle r="128" fill="#0F2A1C"/>
   <circle r="120" fill="#2E5E3A"/>
   <defs><clipPath id="mku8"><circle r="120"/></clipPath></defs>
-  <g clip-path="url(#mku8)" transform="translate(0 10) scale(1.08)"><g transform="translate(0 -6)"><circle cx="0" cy="4" r="76" fill="#3A6C46" opacity=".55"/>
-  <circle cx="0" cy="4" r="44" fill="#3A6C46"/>
+  <g clip-path="url(#mku8)" transform="translate(0 10) scale(1.08)"><g transform="translate(0 -6)"><circle cx="0" cy="4" r="76" fill="#0038A8"/>
+  <circle cx="0" cy="4" r="44" fill="#CE1126"/>
+  <circle cx="0" cy="4" r="44" fill="none" stroke="#F6C453" stroke-width="1.4"/>
+  <circle cx="0" cy="4" r="76" fill="none" stroke="#F6C453" stroke-width="1.4"/>
   <g fill="#F6C453"><path transform="translate(0 4) rotate(-66.5) translate(0 -54)" d="M0,-15 C5.25,-9.3 5.5,8.25 0,15 C-5.5,8.25 -5.25,-9.3 0,-15 Z"/><path transform="translate(0 4) rotate(-66.5) translate(0 -54)" d="M0,-10 V10" stroke="#A97C22" stroke-width="1" stroke-linecap="round"/><path transform="translate(0 4) rotate(-47.5) translate(0 -54)" d="M0,-15 C5.25,-9.3 5.5,8.25 0,15 C-5.5,8.25 -5.25,-9.3 0,-15 Z"/><path transform="translate(0 4) rotate(-47.5) translate(0 -54)" d="M0,-10 V10" stroke="#A97C22" stroke-width="1" stroke-linecap="round"/><path transform="translate(0 4) rotate(-28.5) translate(0 -54)" d="M0,-15 C5.25,-9.3 5.5,8.25 0,15 C-5.5,8.25 -5.25,-9.3 0,-15 Z"/><path transform="translate(0 4) rotate(-28.5) translate(0 -54)" d="M0,-10 V10" stroke="#A97C22" stroke-width="1" stroke-linecap="round"/><path transform="translate(0 4) rotate(-9.5) translate(0 -54)" d="M0,-15 C5.25,-9.3 5.5,8.25 0,15 C-5.5,8.25 -5.25,-9.3 0,-15 Z"/><path transform="translate(0 4) rotate(-9.5) translate(0 -54)" d="M0,-10 V10" stroke="#A97C22" stroke-width="1" stroke-linecap="round"/><path transform="translate(0 4) rotate(9.5) translate(0 -54)" d="M0,-15 C5.25,-9.3 5.5,8.25 0,15 C-5.5,8.25 -5.25,-9.3 0,-15 Z"/><path transform="translate(0 4) rotate(9.5) translate(0 -54)" d="M0,-10 V10" stroke="#A97C22" stroke-width="1" stroke-linecap="round"/><path transform="translate(0 4) rotate(28.5) translate(0 -54)" d="M0,-15 C5.25,-9.3 5.5,8.25 0,15 C-5.5,8.25 -5.25,-9.3 0,-15 Z"/><path transform="translate(0 4) rotate(28.5) translate(0 -54)" d="M0,-10 V10" stroke="#A97C22" stroke-width="1" stroke-linecap="round"/><path transform="translate(0 4) rotate(47.5) translate(0 -54)" d="M0,-15 C5.25,-9.3 5.5,8.25 0,15 C-5.5,8.25 -5.25,-9.3 0,-15 Z"/><path transform="translate(0 4) rotate(47.5) translate(0 -54)" d="M0,-10 V10" stroke="#A97C22" stroke-width="1" stroke-linecap="round"/><path transform="translate(0 4) rotate(66.5) translate(0 -54)" d="M0,-15 C5.25,-9.3 5.5,8.25 0,15 C-5.5,8.25 -5.25,-9.3 0,-15 Z"/><path transform="translate(0 4) rotate(66.5) translate(0 -54)" d="M0,-10 V10" stroke="#A97C22" stroke-width="1" stroke-linecap="round"/></g>
   <circle cx="0" cy="4" r="27" fill="#F6C453"/>
   <circle cx="0" cy="4" r="22" fill="none" stroke="#FDF7E1" stroke-opacity=".35" stroke-width="1"/></g>
@@ -431,8 +449,10 @@ svg.stacked{width:min(100%,480px);height:auto}svg.hz{width:100%;height:auto}
   <circle r="128" fill="#0F2A1C"/>
   <circle r="120" fill="#2E5E3A"/>
   <defs><clipPath id="mku9"><circle r="120"/></clipPath></defs>
-  <g clip-path="url(#mku9)" transform="translate(0 10) scale(1.08)"><g transform="translate(0 -6)"><circle cx="0" cy="4" r="76" fill="#3A6C46" opacity=".55"/>
-  <circle cx="0" cy="4" r="44" fill="#3A6C46"/>
+  <g clip-path="url(#mku9)" transform="translate(0 10) scale(1.08)"><g transform="translate(0 -6)"><circle cx="0" cy="4" r="76" fill="#0038A8"/>
+  <circle cx="0" cy="4" r="44" fill="#CE1126"/>
+  <circle cx="0" cy="4" r="44" fill="none" stroke="#F6C453" stroke-width="1.4"/>
+  <circle cx="0" cy="4" r="76" fill="none" stroke="#F6C453" stroke-width="1.4"/>
   <g fill="#F6C453"><path transform="translate(0 4) rotate(-66.5) translate(0 -54)" d="M0,-15 C5.25,-9.3 5.5,8.25 0,15 C-5.5,8.25 -5.25,-9.3 0,-15 Z"/><path transform="translate(0 4) rotate(-66.5) translate(0 -54)" d="M0,-10 V10" stroke="#A97C22" stroke-width="1" stroke-linecap="round"/><path transform="translate(0 4) rotate(-47.5) translate(0 -54)" d="M0,-15 C5.25,-9.3 5.5,8.25 0,15 C-5.5,8.25 -5.25,-9.3 0,-15 Z"/><path transform="translate(0 4) rotate(-47.5) translate(0 -54)" d="M0,-10 V10" stroke="#A97C22" stroke-width="1" stroke-linecap="round"/><path transform="translate(0 4) rotate(-28.5) translate(0 -54)" d="M0,-15 C5.25,-9.3 5.5,8.25 0,15 C-5.5,8.25 -5.25,-9.3 0,-15 Z"/><path transform="translate(0 4) rotate(-28.5) translate(0 -54)" d="M0,-10 V10" stroke="#A97C22" stroke-width="1" stroke-linecap="round"/><path transform="translate(0 4) rotate(-9.5) translate(0 -54)" d="M0,-15 C5.25,-9.3 5.5,8.25 0,15 C-5.5,8.25 -5.25,-9.3 0,-15 Z"/><path transform="translate(0 4) rotate(-9.5) translate(0 -54)" d="M0,-10 V10" stroke="#A97C22" stroke-width="1" stroke-linecap="round"/><path transform="translate(0 4) rotate(9.5) translate(0 -54)" d="M0,-15 C5.25,-9.3 5.5,8.25 0,15 C-5.5,8.25 -5.25,-9.3 0,-15 Z"/><path transform="translate(0 4) rotate(9.5) translate(0 -54)" d="M0,-10 V10" stroke="#A97C22" stroke-width="1" stroke-linecap="round"/><path transform="translate(0 4) rotate(28.5) translate(0 -54)" d="M0,-15 C5.25,-9.3 5.5,8.25 0,15 C-5.5,8.25 -5.25,-9.3 0,-15 Z"/><path transform="translate(0 4) rotate(28.5) translate(0 -54)" d="M0,-10 V10" stroke="#A97C22" stroke-width="1" stroke-linecap="round"/><path transform="translate(0 4) rotate(47.5) translate(0 -54)" d="M0,-15 C5.25,-9.3 5.5,8.25 0,15 C-5.5,8.25 -5.25,-9.3 0,-15 Z"/><path transform="translate(0 4) rotate(47.5) translate(0 -54)" d="M0,-10 V10" stroke="#A97C22" stroke-width="1" stroke-linecap="round"/><path transform="translate(0 4) rotate(66.5) translate(0 -54)" d="M0,-15 C5.25,-9.3 5.5,8.25 0,15 C-5.5,8.25 -5.25,-9.3 0,-15 Z"/><path transform="translate(0 4) rotate(66.5) translate(0 -54)" d="M0,-10 V10" stroke="#A97C22" stroke-width="1" stroke-linecap="round"/></g>
   <circle cx="0" cy="4" r="27" fill="#F6C453"/>
   <circle cx="0" cy="4" r="22" fill="none" stroke="#FDF7E1" stroke-opacity=".35" stroke-width="1"/></g>
@@ -445,8 +465,10 @@ svg.stacked{width:min(100%,480px);height:auto}svg.hz{width:100%;height:auto}
   <circle r="128" fill="#0F2A1C"/>
   <circle r="120" fill="#2E5E3A"/>
   <defs><clipPath id="mku10"><circle r="120"/></clipPath></defs>
-  <g clip-path="url(#mku10)" transform="translate(0 10) scale(1.08)"><g transform="translate(0 -6)"><circle cx="0" cy="4" r="76" fill="#3A6C46" opacity=".55"/>
-  <circle cx="0" cy="4" r="44" fill="#3A6C46"/>
+  <g clip-path="url(#mku10)" transform="translate(0 10) scale(1.08)"><g transform="translate(0 -6)"><circle cx="0" cy="4" r="76" fill="#0038A8"/>
+  <circle cx="0" cy="4" r="44" fill="#CE1126"/>
+  <circle cx="0" cy="4" r="44" fill="none" stroke="#F6C453" stroke-width="1.4"/>
+  <circle cx="0" cy="4" r="76" fill="none" stroke="#F6C453" stroke-width="1.4"/>
   <g fill="#F6C453"><path transform="translate(0 4) rotate(-66.5) translate(0 -54)" d="M0,-15 C5.25,-9.3 5.5,8.25 0,15 C-5.5,8.25 -5.25,-9.3 0,-15 Z"/><path transform="translate(0 4) rotate(-66.5) translate(0 -54)" d="M0,-10 V10" stroke="#A97C22" stroke-width="1" stroke-linecap="round"/><path transform="translate(0 4) rotate(-47.5) translate(0 -54)" d="M0,-15 C5.25,-9.3 5.5,8.25 0,15 C-5.5,8.25 -5.25,-9.3 0,-15 Z"/><path transform="translate(0 4) rotate(-47.5) translate(0 -54)" d="M0,-10 V10" stroke="#A97C22" stroke-width="1" stroke-linecap="round"/><path transform="translate(0 4) rotate(-28.5) translate(0 -54)" d="M0,-15 C5.25,-9.3 5.5,8.25 0,15 C-5.5,8.25 -5.25,-9.3 0,-15 Z"/><path transform="translate(0 4) rotate(-28.5) translate(0 -54)" d="M0,-10 V10" stroke="#A97C22" stroke-width="1" stroke-linecap="round"/><path transform="translate(0 4) rotate(-9.5) translate(0 -54)" d="M0,-15 C5.25,-9.3 5.5,8.25 0,15 C-5.5,8.25 -5.25,-9.3 0,-15 Z"/><path transform="translate(0 4) rotate(-9.5) translate(0 -54)" d="M0,-10 V10" stroke="#A97C22" stroke-width="1" stroke-linecap="round"/><path transform="translate(0 4) rotate(9.5) translate(0 -54)" d="M0,-15 C5.25,-9.3 5.5,8.25 0,15 C-5.5,8.25 -5.25,-9.3 0,-15 Z"/><path transform="translate(0 4) rotate(9.5) translate(0 -54)" d="M0,-10 V10" stroke="#A97C22" stroke-width="1" stroke-linecap="round"/><path transform="translate(0 4) rotate(28.5) translate(0 -54)" d="M0,-15 C5.25,-9.3 5.5,8.25 0,15 C-5.5,8.25 -5.25,-9.3 0,-15 Z"/><path transform="translate(0 4) rotate(28.5) translate(0 -54)" d="M0,-10 V10" stroke="#A97C22" stroke-width="1" stroke-linecap="round"/><path transform="translate(0 4) rotate(47.5) translate(0 -54)" d="M0,-15 C5.25,-9.3 5.5,8.25 0,15 C-5.5,8.25 -5.25,-9.3 0,-15 Z"/><path transform="translate(0 4) rotate(47.5) translate(0 -54)" d="M0,-10 V10" stroke="#A97C22" stroke-width="1" stroke-linecap="round"/><path transform="translate(0 4) rotate(66.5) translate(0 -54)" d="M0,-15 C5.25,-9.3 5.5,8.25 0,15 C-5.5,8.25 -5.25,-9.3 0,-15 Z"/><path transform="translate(0 4) rotate(66.5) translate(0 -54)" d="M0,-10 V10" stroke="#A97C22" stroke-width="1" stroke-linecap="round"/></g>
   <circle cx="0" cy="4" r="27" fill="#F6C453"/>
   <circle cx="0" cy="4" r="22" fill="none" stroke="#FDF7E1" stroke-opacity=".35" stroke-width="1"/></g>
@@ -464,7 +486,7 @@ svg.stacked{width:min(100%,480px);height:auto}svg.hz{width:100%;height:auto}
   
 </div></section>
 
-<section><div class="eyebrow">Color</div><h2>Forest and gold, nothing else</h2>
-<div class="palette"><div class="sw"><div class="chip" style="background:#0F2A1C;color:#FDF7E1">#0F2A1C</div><b>Deep Forest</b><em>Seal ground, primary text</em></div><div class="sw"><div class="chip" style="background:#2E5E3A;color:#FDF7E1">#2E5E3A</div><b>Field Green</b><em>Sky, descriptors</em></div><div class="sw"><div class="chip" style="background:#F6C453;color:#0F2A1C">#F6C453</div><b>Sun Gold</b><em>Sun, palay, ribbon, terraces</em></div><div class="sw"><div class="chip" style="background:#A97C22;color:#FDF7E1">#A97C22</div><b>Old Gold</b><em>Gold for small text on light grounds</em></div><div class="sw"><div class="chip" style="background:#FDF7E1;color:#0F2A1C">#FDF7E1</div><b>Paper Cream</b><em>Pages, bridge, reversed text</em></div></div>
+<section><div class="eyebrow">Color</div><h2>Forest and gold, with the flag at its heart</h2>
+<div class="palette"><div class="sw"><div class="chip" style="background:#0F2A1C;color:#FDF7E1">#0F2A1C</div><b>Deep Forest</b><em>Seal ground, primary text</em></div><div class="sw"><div class="chip" style="background:#2E5E3A;color:#FDF7E1">#2E5E3A</div><b>Field Green</b><em>Sky, descriptors</em></div><div class="sw"><div class="chip" style="background:#F6C453;color:#0F2A1C">#F6C453</div><b>Sun Gold</b><em>Sun, palay, ribbon, terraces</em></div><div class="sw"><div class="chip" style="background:#A97C22;color:#FDF7E1">#A97C22</div><b>Old Gold</b><em>Gold for small text on light grounds</em></div><div class="sw"><div class="chip" style="background:#0038A8;color:#FDF7E1">#0038A8</div><b>Flag Blue</b><em>Outer ring behind the sun</em></div><div class="sw"><div class="chip" style="background:#CE1126;color:#FDF7E1">#CE1126</div><b>Flag Red</b><em>Inner ring behind the sun</em></div><div class="sw"><div class="chip" style="background:#FDF7E1;color:#0F2A1C">#FDF7E1</div><b>Paper Cream</b><em>Pages, bridge, reversed text</em></div></div>
 <ul class="rules"><li>Keep the seal on Deep Forest, Paper Cream or white. Never place it on photos without a solid backing.</li><li>Clear space around every logo: at least the diameter of the sun.</li><li>Minimum sizes: seal 96 px / 25 mm, medallion 48 px, mark 16 px.</li></ul></section>
 </div></body></html>
